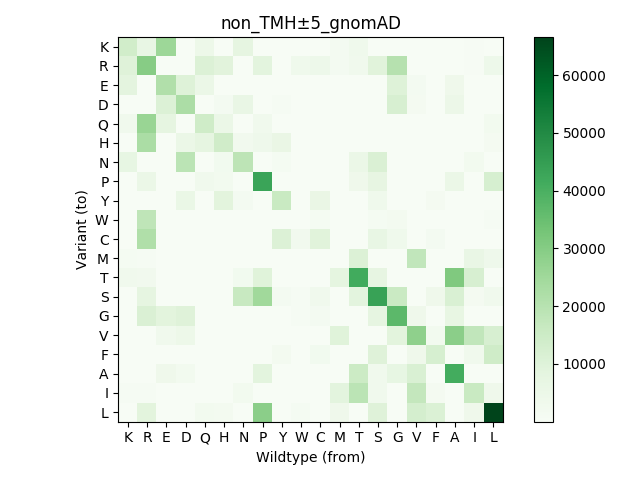
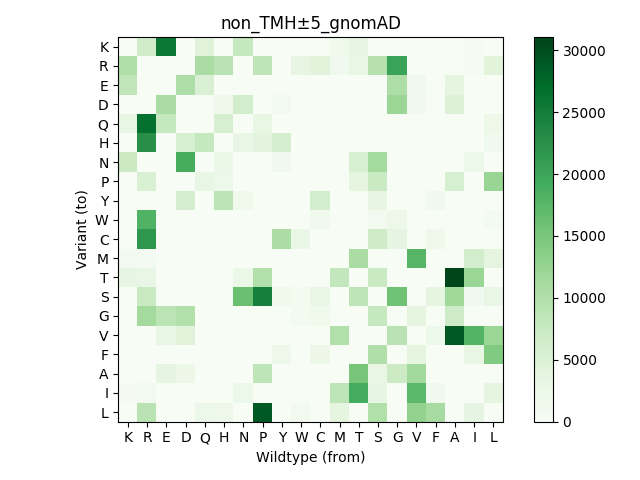
Fixes #67, summary.sh now generates some normalised heatmaps.

diff --git a/scripts/summary.py b/scripts/summary.py
@@ -59,7 +59,7 @@ def heatmap_run():
     aa_list_baezo_order=['K', 'R', 'E', 'D', 'Q', 'H', 'N', 'P', 'Y', 'W', 'C', 'M', 'T', 'S', 'G', 'V', 'F', 'A', 'I', 'L']
     title = "TMH±5_disease"
 
-    Residue.object.all().prefetch_related("variant")
+    Residue.objects.all().prefetch_related("variant")
 
     var_freq=list(Variant.objects.exclude(residue__tmh_residue=None).filter(disease_status='d').values_list("aa_wt", "aa_mut"))
     var_freqs_list=heatmap_array(var_freq, aa_list_baezo_order)
@@ -73,8 +73,8 @@ def heatmap_run():
     var_freq=list(Variant.objects.filter(residue__tmh_residue=None).filter(disease_status='d').values_list("aa_wt", "aa_mut"))
     heatmap(heatmap_array(var_freq, aa_list_baezo_order), title, aa_list_baezo_order, "d", None)
 
-    title = "TMH±5_disease_clinvar"
-    clinvar_tmh_var_freq=list(Variant.objects.exclude(residue__tmh_residue=None).filter(variant_source="ClinVar", disease_status='d').values_list("aa_wt", "aa_mut"))
+    title = "TMH_disease_clinvar"
+    clinvar_tmh_var_freq=list(Variant.objects.exclude(residue__tmh_residue__feature_location="TMH").filter(variant_source="ClinVar", disease_status='d').values_list("aa_wt", "aa_mut"))
     clinvar_tmh_disease_var_array = heatmap_array(clinvar_tmh_var_freq, aa_list_baezo_order)
     heatmap(clinvar_tmh_disease_var_array, title, aa_list_baezo_order , "d", None)
 
@@ -91,13 +91,13 @@ def heatmap_run():
     var_freq=list(Variant.objects.filter(residue__tmh_residue=None).filter(variant_source="Humsavar", disease_status='d').values_list("aa_wt", "aa_mut"))
     heatmap(heatmap_array(var_freq, aa_list_baezo_order), title, aa_list_baezo_order, "d", None)
 
-    title = "TMH±5_gnomAD"
-    gnomad_tmh_var_freq=list(Variant.objects.exclude(residue__tmh_residue=None).filter(variant_source='gnomAD').values_list("aa_wt", "aa_mut"))
+    title = "TMH_gnomAD"
+    gnomad_tmh_var_freq=list(Variant.objects.exclude(aa_mut=F("aa_wt")).filter(residue__tmh_residue__feature_location="TMH").filter(variant_source='gnomAD').values_list("aa_wt", "aa_mut"))
     gnomad_tmh_var_array = heatmap_array(gnomad_tmh_var_freq, aa_list_baezo_order)
     heatmap(gnomad_tmh_var_array, title, aa_list_baezo_order, "n", None)
 
     title = "non_TMH±5_gnomAD"
-    gnomad_non_tmh_var_freq=list(Variant.objects.filter(residue__tmh_residue=None).filter(variant_source='gnomAD').values_list("aa_wt", "aa_mut"))
+    gnomad_non_tmh_var_freq=list(Variant.objects.exclude(aa_mut=F("aa_wt")).filter(residue__tmh_residue=None).filter(variant_source='gnomAD').values_list("aa_wt", "aa_mut"))
     gnomad_non_tmh_var_array=heatmap_array(gnomad_non_tmh_var_freq, aa_list_baezo_order)
     heatmap(gnomad_non_tmh_var_array, title, aa_list_baezo_order, "n", None)
 
@@ -113,9 +113,18 @@ def heatmap_run():
 
     # normalised to residue count presence #
     residue_count_dict={}
+    print("Residue counts that fall outside TMH±5 in TMPs")
     for aa in aa_list_baezo_order:
-        aa_count = Residue.objects.filter(tmh_residue=None).count()
+        aa_count = Residue.objects.filter(tmh_residue=None, amino_acid_type=aa).count()
+        print(aa, aa_count)
         residue_count_dict[aa]=aa_count
+
+    tmh_residue_count_dict={}
+    print("Residue counts that fall within the TMH in TMPs")
+    for aa in aa_list_baezo_order:
+        aa_count = Residue.objects.filter(tmh_residue__feature_location="TMH", amino_acid_type=aa).count()
+        print(aa, aa_count)
+        tmh_residue_count_dict[aa]=aa_count
 
     color_dict_list = {
     "gnomAD" : "n",
@@ -123,21 +132,37 @@ def heatmap_run():
     }
 
     tmh_datasets= [gnomad_tmh_var_array, clinvar_tmh_disease_var_array]
-    for dataset in tmh_datasets:
+    for n, dataset in enumerate(tmh_datasets):
+        residue_normalised_count_matrix = []
+        for var_aa_num, aa_var in enumerate(aa_list_baezo_order):
+            residue_normalised_list = []
+            for wt_aa_num, aa_wt in enumerate(aa_list_baezo_order):
+                #print(dataset[var_aa_num][wt_aa_num], tmh_residue_count_dict[aa_wt])
+                residue_normalised_value = dataset[var_aa_num][wt_aa_num]/tmh_residue_count_dict[aa_wt]
+                residue_normalised_list.append(residue_normalised_value)
+            residue_normalised_count_matrix.append(residue_normalised_list)
+        if n == 1:
+            source="ClinVar"
+        elif n == 0:
+            source="gnomAD"
+
+        heatmap(np.array(residue_normalised_count_matrix), f"Residue normalised according to WT residue in TMH residue population in {color_dict_list[source]} state", aa_list_baezo_order, color_dict_list[source], None) #needs a better scale
+
+    non_tmh_datasets= [gnomad_non_tmh_var_array, clinvar_non_tmh_disease_var_array]
+    for n, dataset in enumerate(non_tmh_datasets):
         residue_normalised_count_matrix = []
         for var_aa_num, aa_var in enumerate(aa_list_baezo_order):
             residue_normalised_list = []
             for wt_aa_num, aa_wt in enumerate(aa_list_baezo_order):
                 residue_normalised_value = dataset[var_aa_num][wt_aa_num]/residue_count_dict[aa_wt]
-                fisher_oddsratio, fisher_pvalue = stats.fisher_exact([[clinvar_tmh_disease_var_array[var_aa_num][wt_aa_num], clinvar_non_tmh_disease_var_array[var_aa_num][wt_aa_num]], [gnomad_tmh_var_array[var_aa_num][wt_aa_num], gnomad_non_tmh_var_array[var_aa_num][wt_aa_num]]], alternative='two-sided')
                 residue_normalised_list.append(residue_normalised_value)
             residue_normalised_count_matrix.append(residue_normalised_list)
-        if dataset == clinvar_tmh_disease_var_array:
+        if n == 1:
             source="ClinVar"
-        elif dataset == gnomad_tmh_disease_var_array:
+        elif n == 0:
             source="gnomAD"
 
-        heatmap(np.array(residue_normalised_count_matrix), f"Residue normalised according to WT residue in TMH residue population in {color_dict_list[color]} state", aa_list_baezo_order, color_dict_list[color]) #needs a better scale
+        heatmap(np.array(residue_normalised_count_matrix), f"Residue normalised according to WT residue in non_TMH residue population in {color_dict_list[source]} state", aa_list_baezo_order, color_dict_list[source], None) #needs a better scale
 
 
 def basic_num():
@@ -148,8 +173,9 @@ def basic_num():
     print("UniProt IDs,", protein_num)
     residue_num = Residue.objects.count()
     print("Residues,", residue_num)
-    tmh_residue_num = Residue.objects.exclude(tmh_residue=None).count()
+    tmh_residue_num = Residue.objects.filter(tmh_residue__feature_location="TMH").count()
     print("TMH residues,", tmh_residue_num)
+
     non_tmh_residue_num = Residue.objects.filter(tmh_residue=None).count()
     print("Non-TMH residues,", non_tmh_residue_num)
     structural_residue_num = Residue.objects.exclude(structural_residue=None).count()
@@ -224,18 +250,18 @@ def basic_num():
         histogram(performance, f"Frequency of proteins with TMH {disease_status[state]} variants", state,"Number of TMH disease variants", "Number of proteins")
 
 
-        proteins =  Protein.objects.filter(residue__in=residues).distinct()
-        location_tmh_var_dict=[]
-        for i in proteins:
-            multi_maps=i.subcellular_locations
-            for a_location in multi_maps:
-                location_tmh_var_dict.append(a_location.location)
+        #proteins =  Protein.objects.filter(residue__in=residues).distinct()
+        #location_tmh_var_dict=[]
+        #for i in proteins:
+        #    multi_maps=i.subcellular_locations
+        #    for a_location in multi_maps:
+        #        location_tmh_var_dict.append(a_location.location)
 
-        collections.Counter(location_tmh_var_dict)
-        print(location_tmh_var_dict)
-        performance = list(location_tmh_var_dict.values())
-        objects = list(location_tmh_var_dict.keys())
-        barchart(objects, performance, f"Frequency of TMH {disease_status[state]} variants in subceullar locations", state, "Subcellular Location", "Number of variants")
+        #collections.Counter(location_tmh_var_dict)
+        #print(location_tmh_var_dict)
+        #performance = list(location_tmh_var_dict.values())
+        #objects = list(location_tmh_var_dict.keys())
+        #barchart(objects, performance, f"Frequency of TMH {disease_status[state]} variants in subceullar locations", state, "Subcellular Location", "Number of variants")
 
     #Variant.objects.filter(residue__tmh_residue__feature_location="TMH", disease_status='d', variant_source="ClinVar").count()
 

diff --git a/scripts/graphs.py b/scripts/graphs.py
@@ -10,7 +10,7 @@ from matplotlib.colors import LogNorm
 def barchart(objects, performance, source, state, x_label, y_label):
     color_dic = {
         "d": "red",
-        "b": "green",
+        "n": "green",
         "a": "grey"
     }
     y_pos = np.arange(len(objects))
